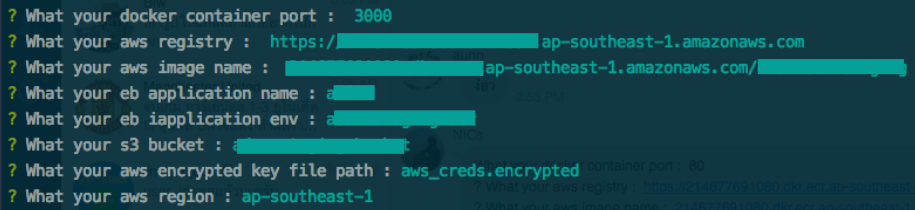
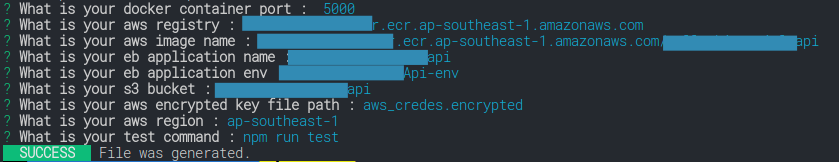
edit readme

diff --git a/README.md b/README.md
@@ -61,14 +61,15 @@ CLI for setup continuous integration and continuous deployment docker with Codes
   - Fill your information on console.
 
     ```
-    1. docker port
+    1. Docker port
     2. AWS registry url
-    3. Image name on AWS registry
+    3. Image name
     4. EB application name
     5. EB environment name
     6. S3 bucket
     7. Your encrypted file
     8. AWS region
+    9. Your test command
     ```
     <img src="./static/img/console.png">
   
